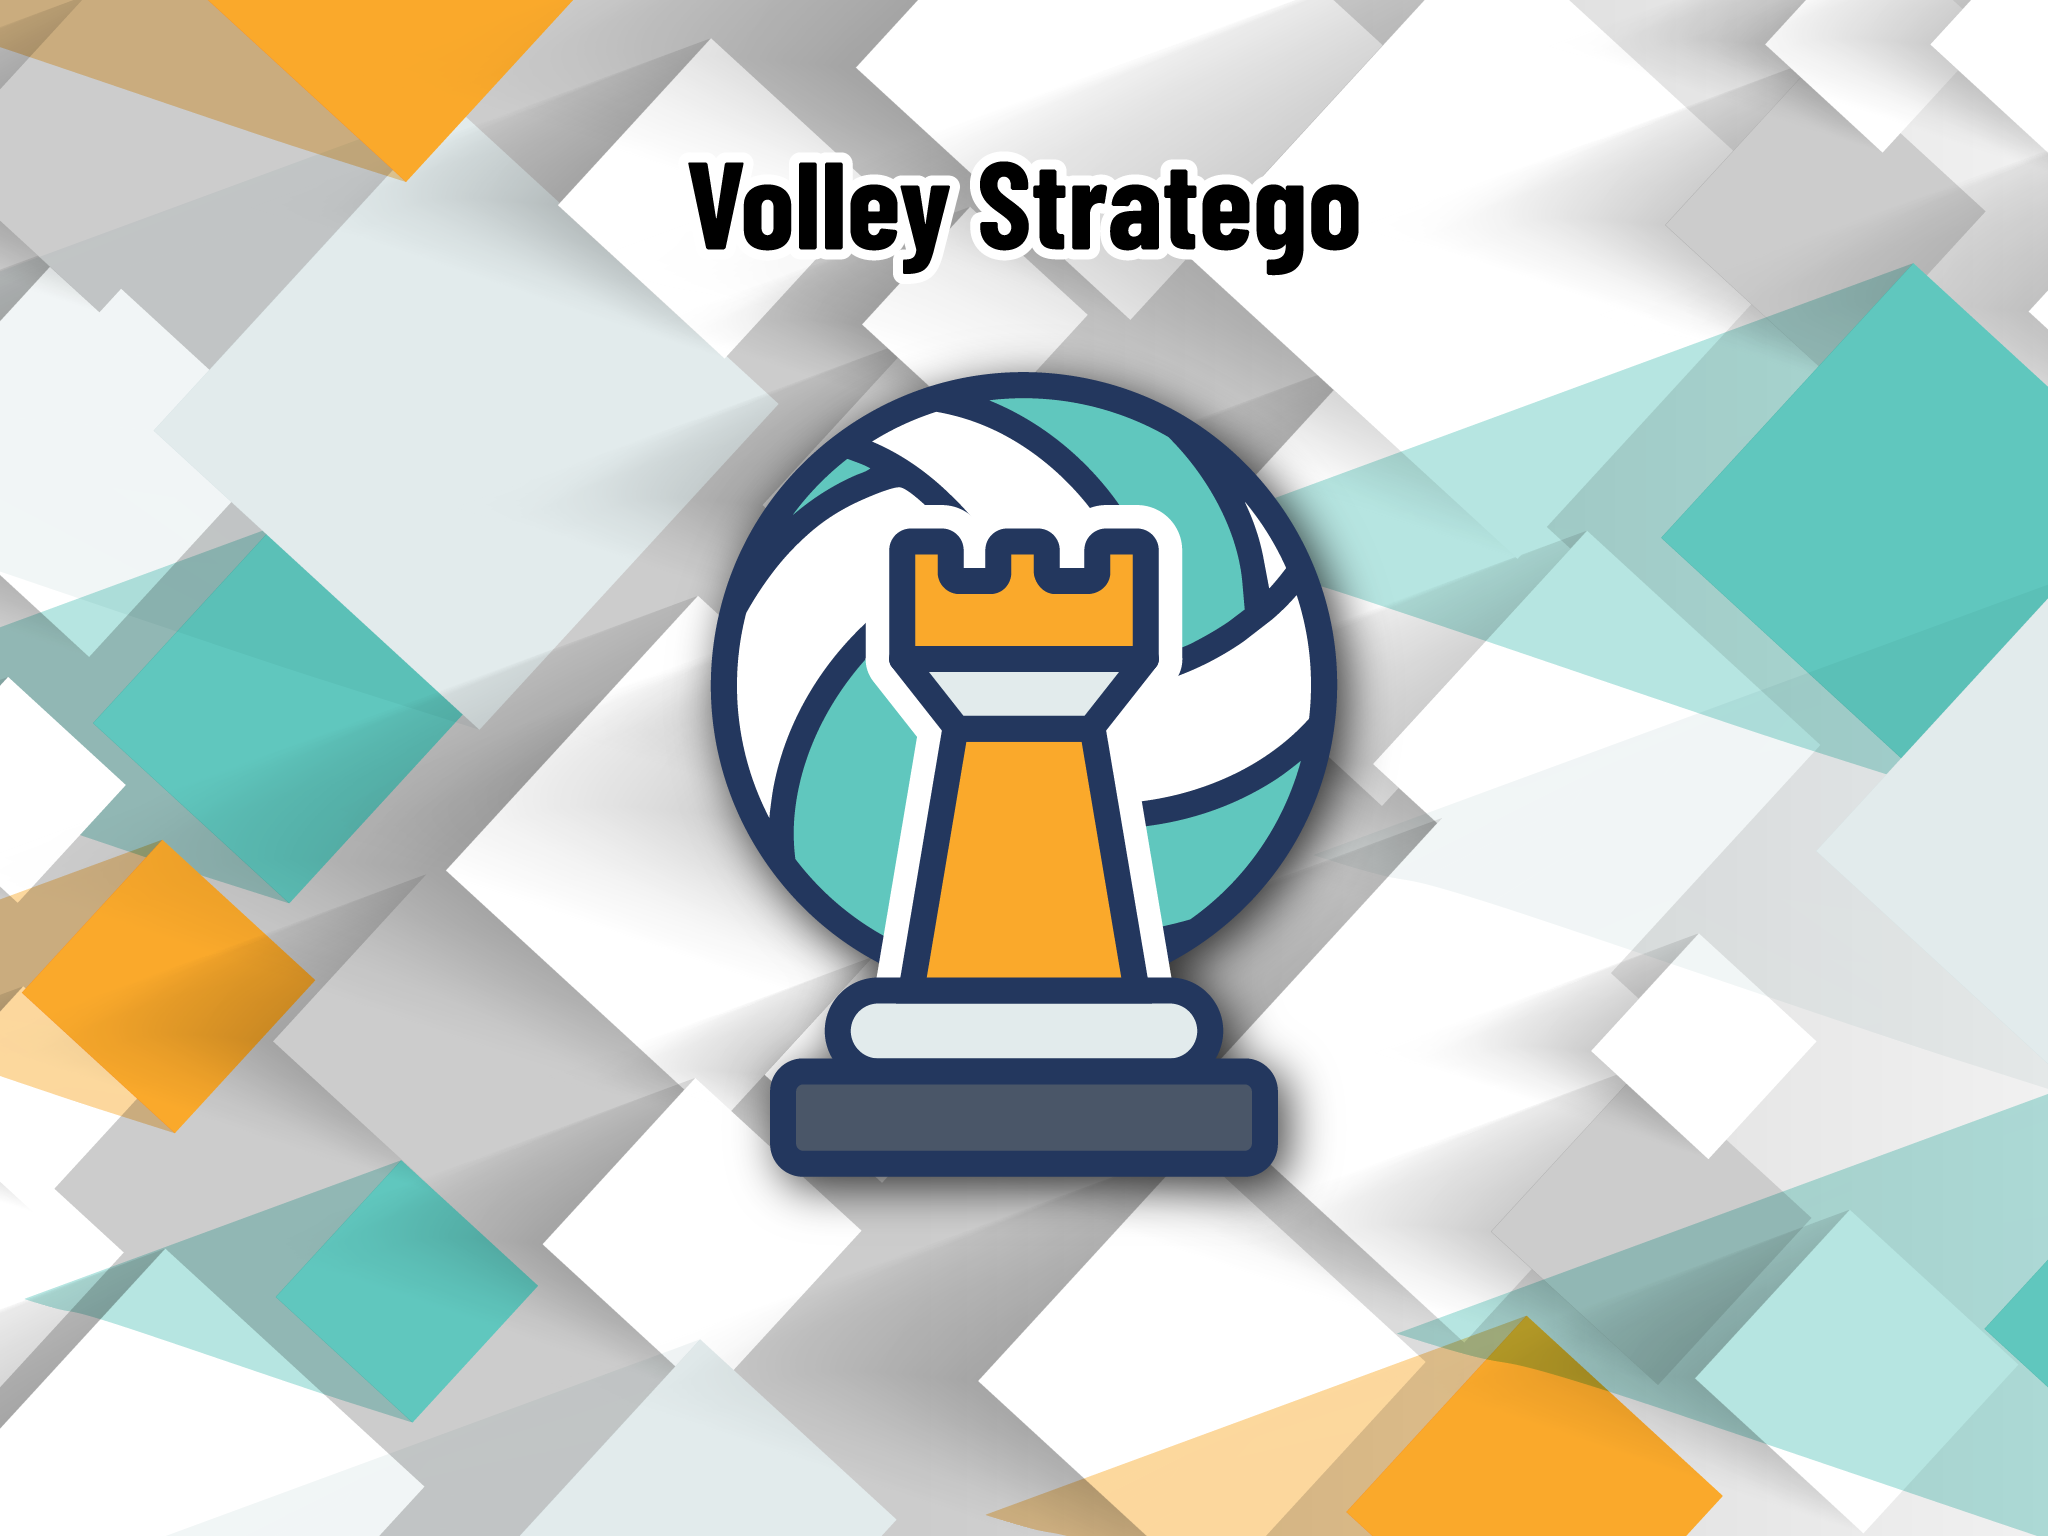
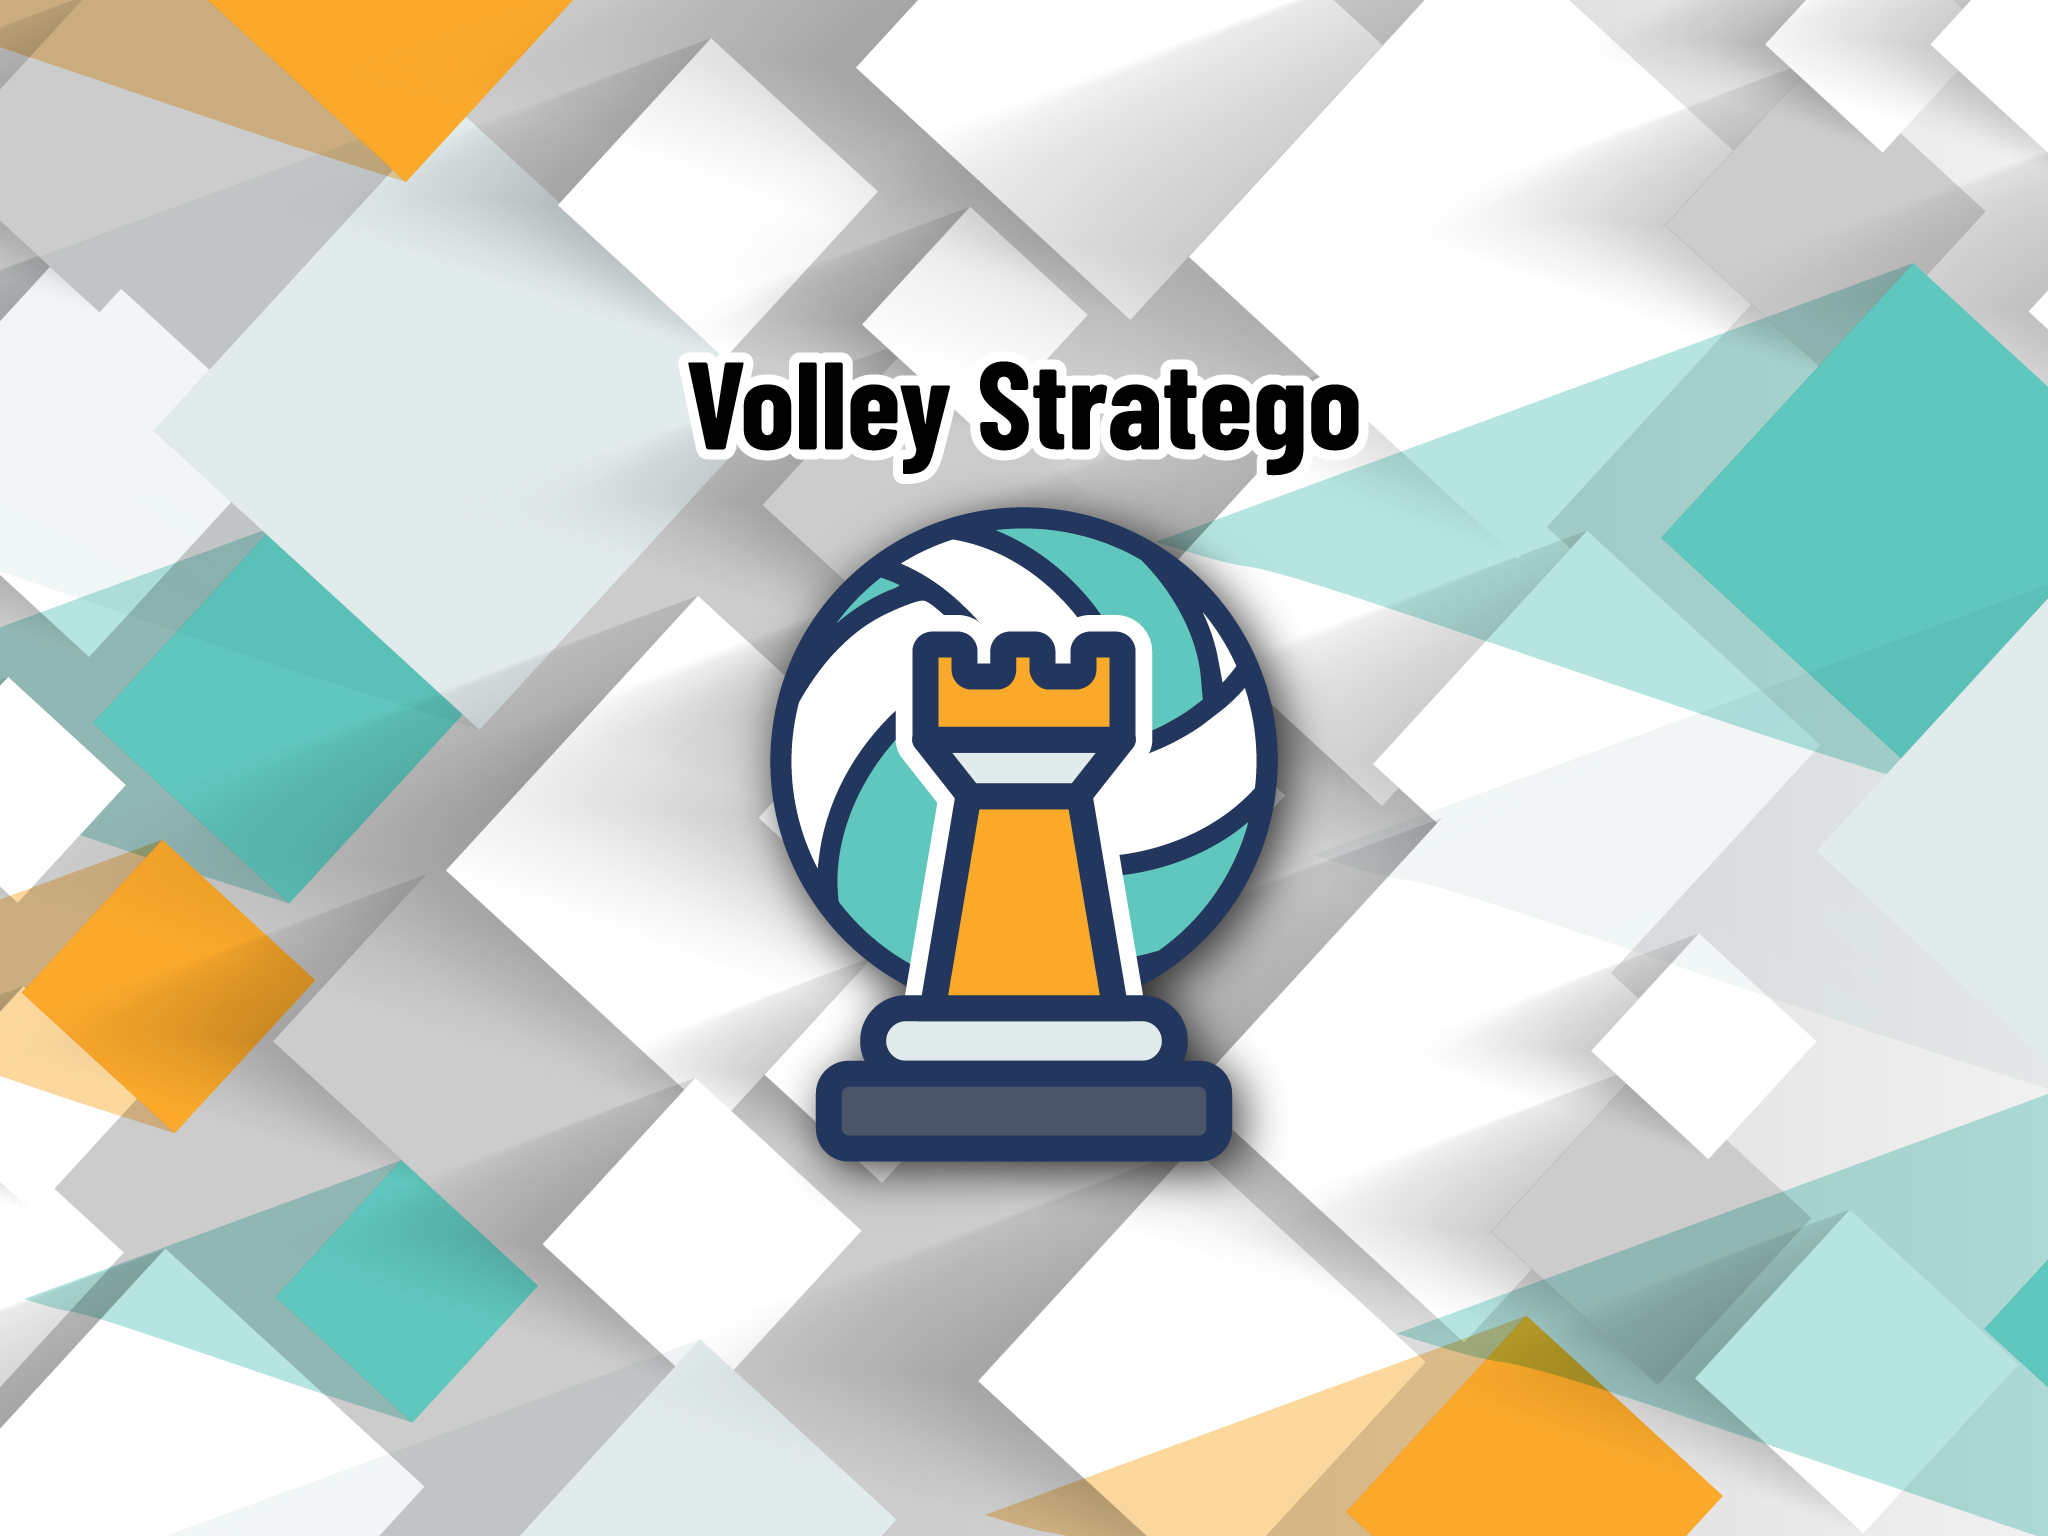
Aggiustamenti labels

Changed region(s): [[0.3125, 0.2188, 0.6875, 0.8125], [0.3125, 0.0938, 0.6875, 0.1875]]

diff --git a/lib/main.dart b/lib/main.dart
@@ -69,6 +69,42 @@ class VolleyScoutApp extends ConsumerWidget {
       locale: locale,
       localizationsDelegates: AppLocalizations.localizationsDelegates,
       supportedLocales: AppLocalizations.supportedLocales,
+      // Su smartphone (schermo basso) rimpicciolisco l'AppBar di TUTTE le
+      // schermate — altezza barra + font del titolo — per dare più spazio
+      // verticale al contenuto. Fatto qui (MaterialApp.builder) così vale
+      // globalmente senza toccare ogni schermata; su tablet resta invariato.
+      // Riduco `textTheme.titleLarge` (il default M3 del titolo AppBar) e NON
+      // `appBarTheme.titleTextStyle`: così il `foregroundColor` continua a
+      // essere applicato al titolo anche sulle AppBar scure a testo bianco
+      // (LineupScreen/FormationConfig/Sostituzione) — vedi app_bar.dart:983.
+      builder: (context, child) {
+        if (child == null) return const SizedBox.shrink();
+        final theme = Theme.of(context);
+        if (MediaQuery.of(context).size.height >= 500) return child;
+        return Theme(
+          data: theme.copyWith(
+            appBarTheme: theme.appBarTheme.copyWith(toolbarHeight: 46),
+            textTheme: theme.textTheme.copyWith(
+              titleLarge: theme.textTheme.titleLarge?.copyWith(fontSize: 18),
+            ),
+            // FilledButton compatti: senza, i bottoni nelle `actions`
+            // dell'AppBar (Avanti/Conferma/Inizia scout) restano ~50px
+            // (padding + tap-target minimo 48) e vengono tagliati nella barra
+            // da 46. shrinkWrap permette al bottone di scendere sotto i 48px.
+            filledButtonTheme: FilledButtonThemeData(
+              style: FilledButton.styleFrom(
+                shape: RoundedRectangleBorder(
+                  borderRadius: BorderRadius.circular(12),
+                ),
+                padding:
+                    const EdgeInsets.symmetric(horizontal: 16, vertical: 6),
+                tapTargetSize: MaterialTapTargetSize.shrinkWrap,
+              ),
+            ),
+          ),
+          child: child,
+        );
+      },
       home: const HomeScreen(),
     );
   }

diff --git a/lib/screens/report/match_pdf_screen.dart b/lib/screens/report/match_pdf_screen.dart
@@ -1663,6 +1663,12 @@ class _MatchPdfScreenState extends ConsumerState<MatchPdfScreen> {
         initialPageFormat: PdfPageFormat.a4.landscape,
         canChangePageFormat: false,
         canChangeOrientation: false,
+        // Render ad alta risoluzione: lo zoom (doppio tap → pinch, integrato
+        // in PdfPreview, fino a 5×) mostra l'immagine già rasterizzata, quindi
+        // un dpi più alto la tiene nitida anche ingrandita — utile per le
+        // tabelle statistiche fitte. Le pagine si rasterizzano pigramente
+        // (solo quelle visibili), quindi il costo è contenuto.
+        dpi: 220,
         pdfFileName:
             'report_${widget.match.nome.replaceAll(RegExp(r'[^\w]+'), '_')}.pdf',
       ),